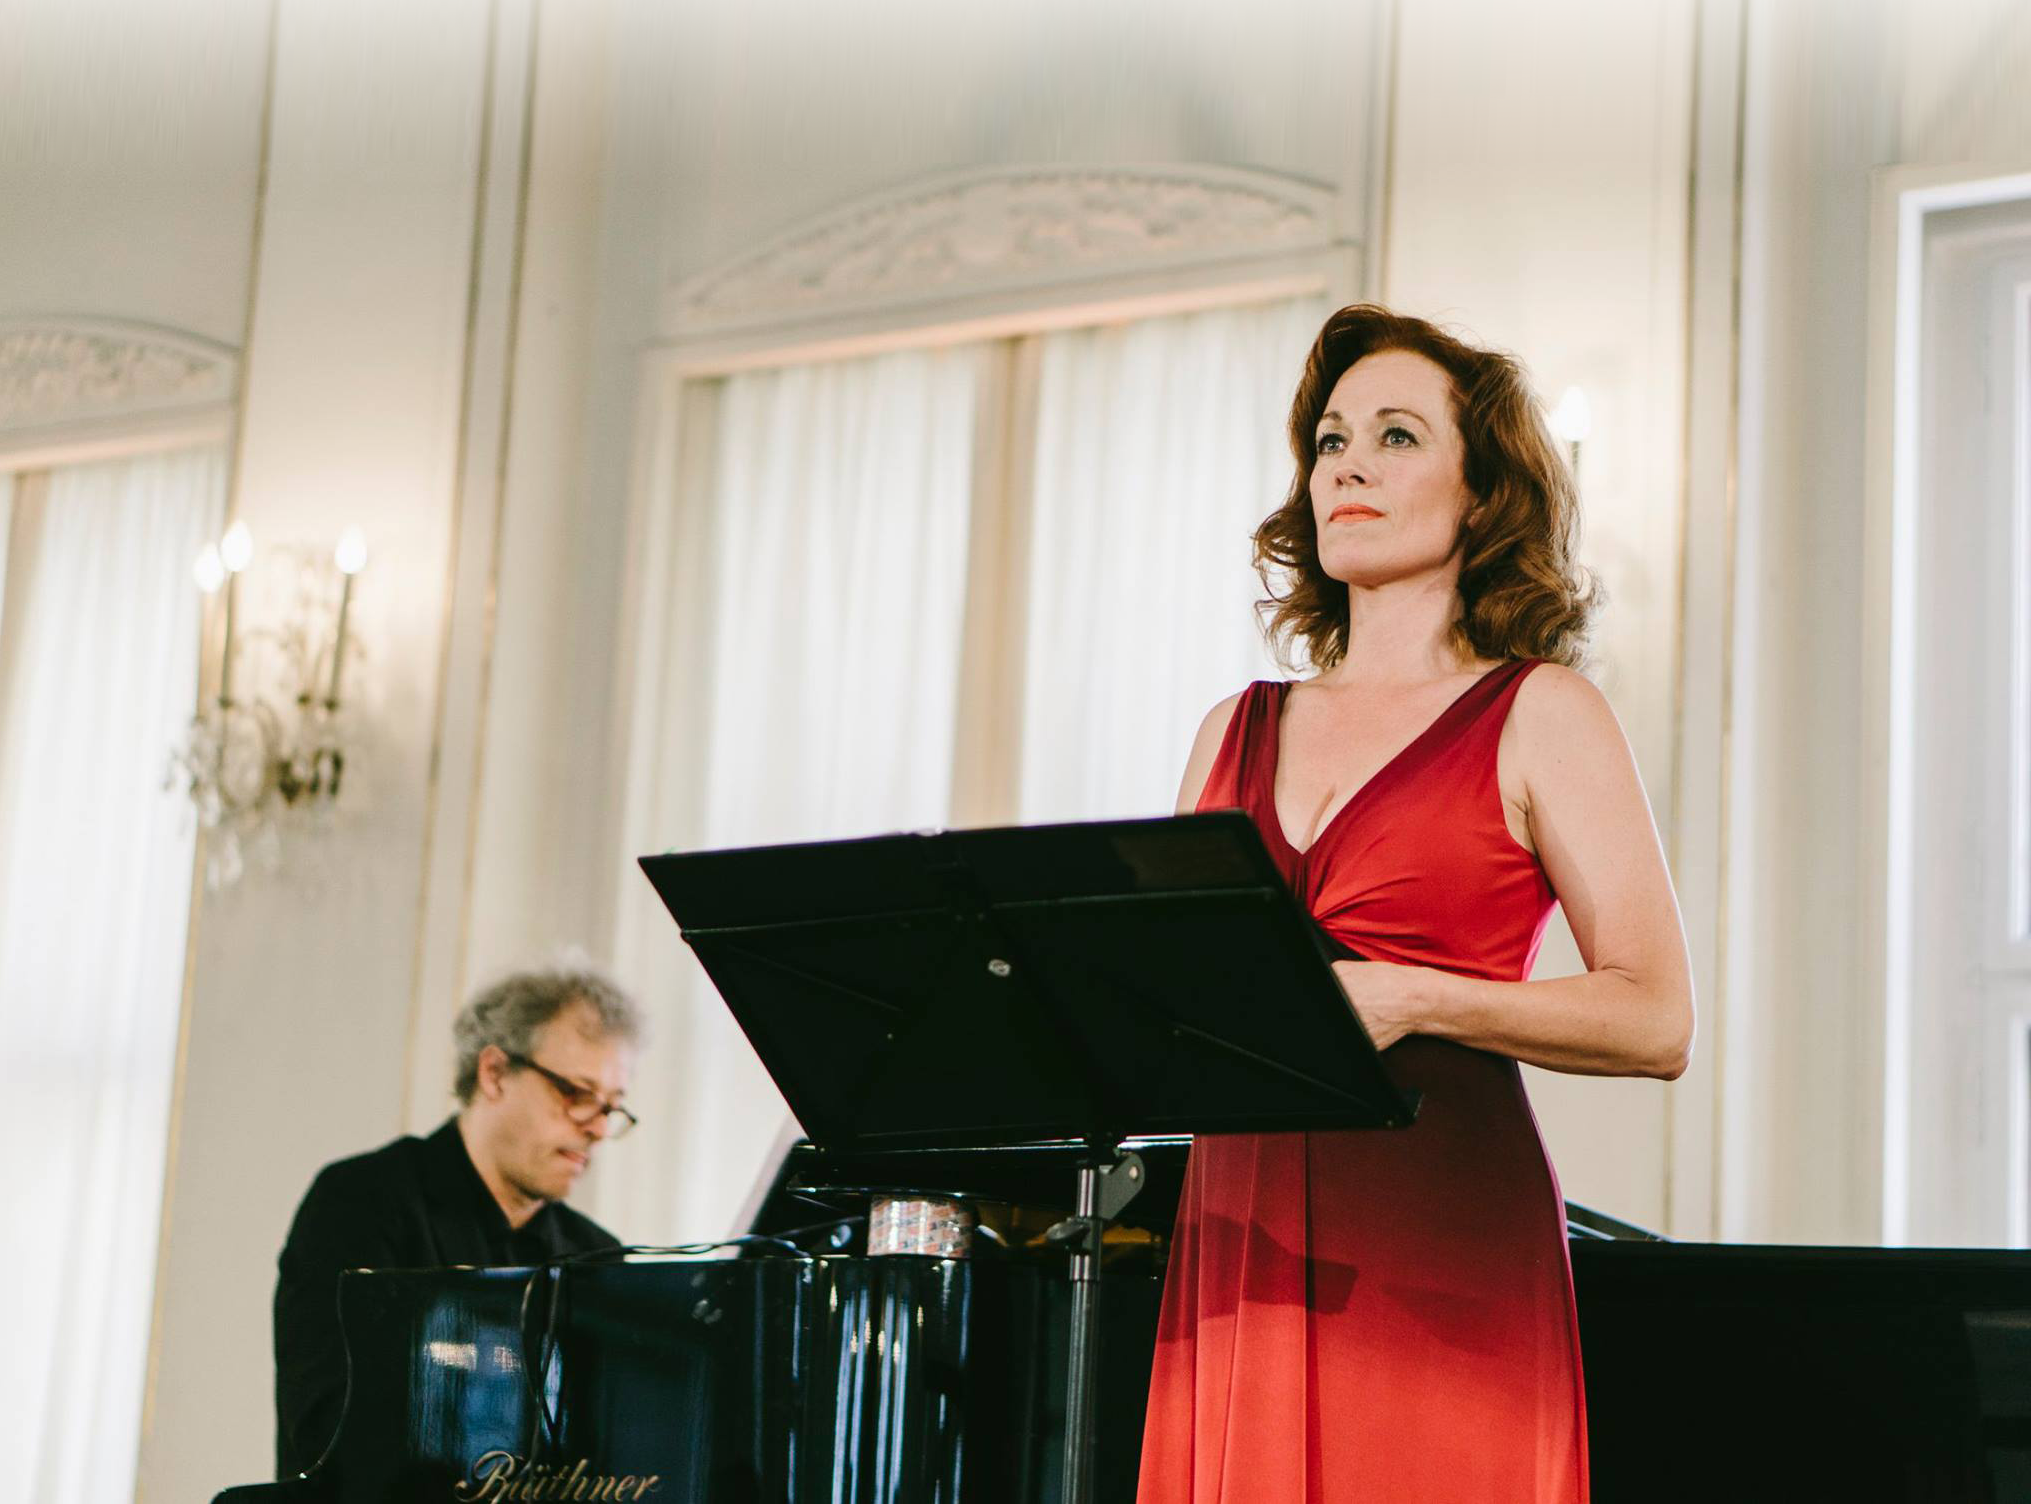
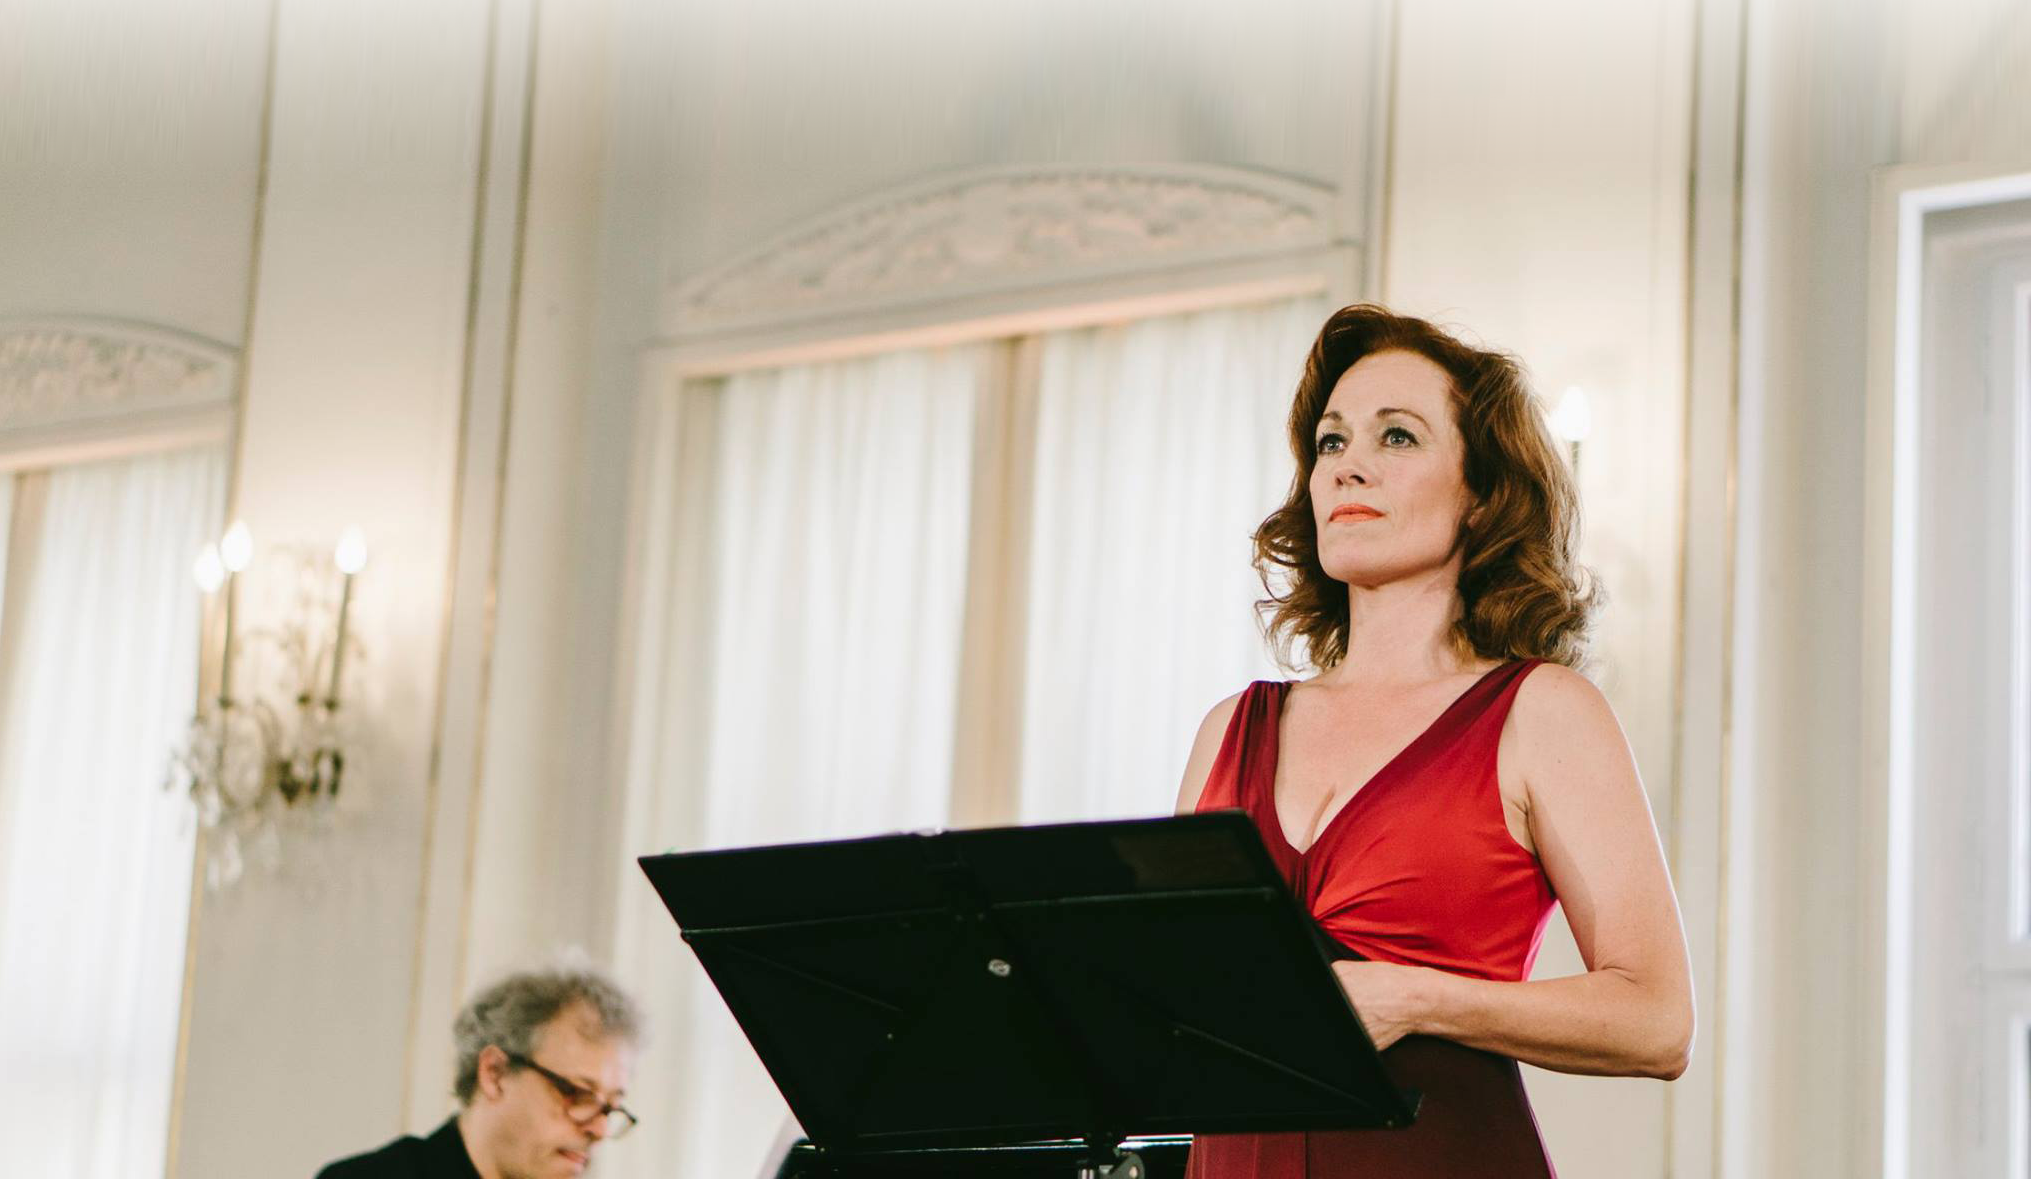
frontpage head photo nicenice

diff --git a/css/style.css b/css/style.css
@@ -98,17 +98,22 @@ button {
 }
 
 header.frontPageHeader {
-    background-image: url(../assets/img/large-img/red-dress-l.png);
-    height: 40em;
-
-    /* Create the parallax scrolling effect */
-    /*  background-attachment: fixed;*/
-    background-position:top;
-    background-repeat: no-repeat;
-    background-size: cover;
+    background-image: url(../assets/img/large-img/red-dress-nocrop-l.png);
+    height: 50vw;
 }
 
+header.header-section {
+    /*    max-height: 90vh;*/
+    /*    min-width:70em;*/
 
+    /* Create the parallax scrolling effect */
+    background-attachment: scroll;
+    background-position: 100% 10%;
+    background-repeat: no-repeat;
+    background-size: cover;
+    /*    padding-top: 100px;*/
+    /*    background-size: auto 100%;*/
+}
 
 
 
@@ -437,7 +442,7 @@ p.websiteName {
 
 .logo-nav-wrapper {
     background-color: rgba(255, 255, 255, 0.7);
-    padding-top: 10px;
+    padding-top: 15px;
     box-shadow: 0px 0px 9px 10px rgba(255, 255, 255, 0.7);
 }
 
@@ -472,7 +477,7 @@ p.websiteName {
 .top-nav a {
     color: black;
     text-decoration: none;
-    margin: 10px 30px;
+    margin: 0px 30px 0px 30px;
 }
 
 .top-nav a:hover {
@@ -484,13 +489,27 @@ p.websiteName {
 }
 
 
-@media only screen and (max-width:800px) {
+@media only screen and (max-width:850px) {
     /*
     .gudrun-live {
     background: var(--grey);
     padding-bottom: 25px;
 }
 */
+
+
+    header.frontPageHeader {
+        background-image: url(../assets/img/medium-img/red-dress-m.png);
+        height: 52vw;
+    }
+
+    .header-section {
+        background-position: top;
+        background-repeat: no-repeat;
+        background-size: cover;
+    }
+
+
 
     iframe.front-page-youtube {
         width: 90vw;
@@ -651,20 +670,16 @@ p.websiteName {
 
 
 
-    .top-nav {
-    }
+    .top-nav {}
 
     .top-nav li {
-        display:flex;
-/*        text-transform: uppercase;*/
+        display: flex;
+        /*        text-transform: uppercase;*/
         padding: 0;
         margin: 0;
     }
 
-    .nav-item {
-
-
-    }
+    .nav-item {}
 
     .top-nav a {
         color: black;
@@ -674,11 +689,11 @@ p.websiteName {
 
 
     .top-nav {
-/*        z-index: 999;*/
+        /*        z-index: 999;*/
         width: 200px;
         background-color: var(--white);
         position: fixed;
-/*        position: absolute;*/
+        /*        position: absolute;*/
         top: 70px;
         padding: 20px 50px 10px 0px;
         right: -300px;
@@ -687,15 +702,15 @@ p.websiteName {
 
         /* slide effect */
         margin-right: -30px;
-/*        display: flex;*/
+        /*        display: flex;*/
         /*            justify-content: center;*/
     }
 
-.top-logo {
-    max-width: 15em;
-    display: block;
-    margin-bottom: 15px;
-}
+    .top-logo {
+        max-width: 14em;
+        display: block;
+        margin-bottom: 15px;
+    }
 
 
     /* when burgerm. is clicked js adds this class to navbar */
@@ -704,7 +719,7 @@ p.websiteName {
         /* the menu appears */
     }
 
-    .change .burgerMenu{
+    .change .burgerMenu {
         background: white;
         padding: 0px 44px 10px;
         margin: 0 -50px 0 0;
@@ -750,34 +765,55 @@ p.websiteName {
 
 @media only screen and (max-width:450px) {
 
-   .burgerMenu {
+    header.frontPageHeader {
+        background-image: url(../assets/img/small-img/red-dress-s.png);
+        height: 60vw;
+    }
+
+    header.header-section {
+        background-position: top;
+        background-repeat: no-repeat;
+        background-size: cover;
+    }
+
+    .top-logo {
+        max-width: 11em;
+    }
+
+    .logo-nav-wrapper {
+        background-color: rgba(255, 255, 255, 0.7);
+        padding-top: 10px;
+        box-shadow: 0px 0px 4px 3px rgba(255, 255, 255, 0.7);
+    }
+
+    .burgerMenu {
         top: 30px;
         right: 25px;
+        margin-top: -6px;
     }
 
     .top-nav {
         width: 100%;
         height: 100%;
-        padding: 20v;
+        margin-top: -70px;
+        padding-top: 70px;
         right: -120%;
-/*        margin-top: -30px;*/
+        /*        margin-top: -30px;*/
         background: var(--white);
-
-
     }
 
     .change {
         right: 0;
     }
 
-     .change .burgerMenu{
+    .change .burgerMenu {
         background: none;
-        margin:0;
-         padding: 0;
+        margin: 0;
+        padding: 0;
 
     }
 
-        .bar1,
+    .bar1,
     .bar2,
     .bar3 {
         width: 25px;
@@ -787,11 +823,11 @@ p.websiteName {
         transition: 0.4s;
     }
 
-   .top-nav li {
-       justify-content: center;
-       padding: 8px;
-/*       background: var(--white);*/
-/*        box-shadow: 0px 0px 103px 70px var(--white);*/
+    .top-nav li {
+        justify-content: center;
+        padding: 8px;
+        /*       background: var(--white);*/
+        /*        box-shadow: 0px 0px 103px 70px var(--white);*/
     }
 
 
@@ -810,6 +846,7 @@ p.websiteName {
     }
 
 }
+
 /*
 
     .navItem {
